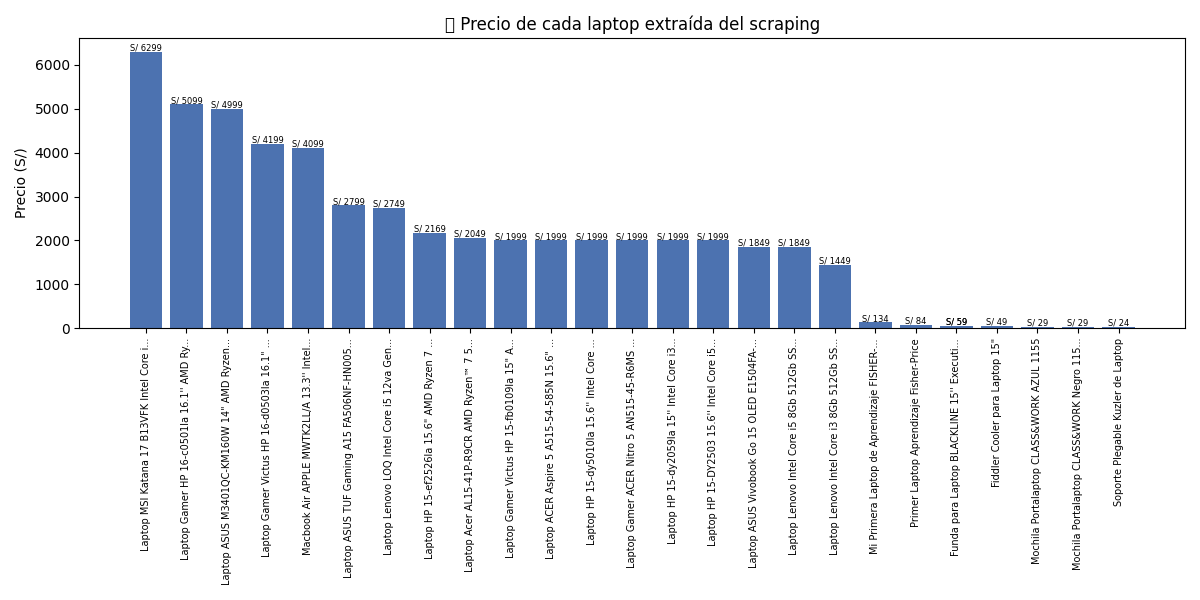
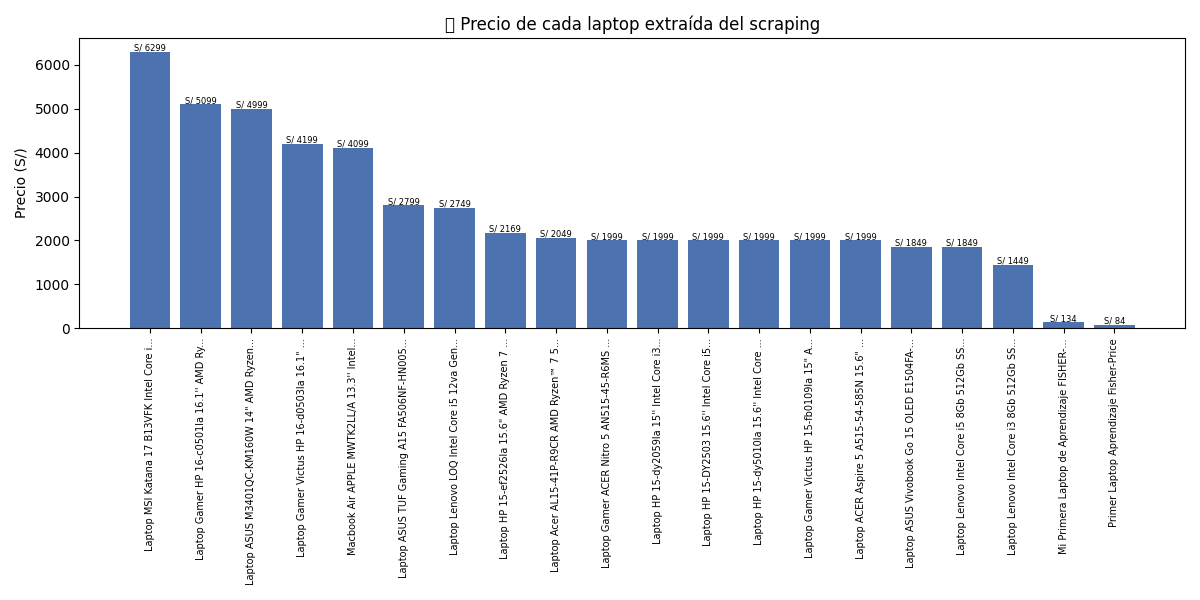
Limpieza de Datos

Changed region(s): [[0.0925, 0.06, 0.9558, 0.96], [0.0925, 0.69, 0.1233, 0.72]]

diff --git a/limpieza.py b/limpieza.py
@@ -1,0 +1,25 @@
+import pandas as pd
+import os
+
+# Leer archivo original
+df = pd.read_csv("data/laptops_supermercados.csv")
+
+# Convertir nombres a minúsculas para filtrar mejor
+df["nombre"] = df["nombre"].astype(str)
+df["nombre_lower"] = df["nombre"].str.lower()
+
+# Palabras que indican que NO es una laptop real
+excluir = ["funda", "maletín", "mochila", "accesorio", "soporte", "cooler", "estuche", "adaptador", "base"]
+
+# Eliminar si contienen alguna de esas palabras
+df_filtrado = df[~df["nombre_lower"].str.contains('|'.join(excluir))]
+
+# Eliminar columna auxiliar
+df_filtrado = df_filtrado.drop(columns=["nombre_lower"])
+
+# Guardar nuevo CSV limpio
+os.makedirs("data", exist_ok=True)
+df_filtrado.to_csv("data/laptops_limpio.csv", index=False)
+
+print(f"✅ Limpieza completa: {len(df) - len(df_filtrado)} productos eliminados.")
+print("📁 Guardado en: data/laptops_limpio.csv")

diff --git a/Visualización2.py b/Visualización2.py
@@ -3,7 +3,7 @@ import matplotlib.pyplot as plt
 import os
 
 # Leer los datos
-df = pd.read_csv("data/laptops_supermercados.csv")
+df = pd.read_csv("data/laptops_limpio.csv")
 
 # Ordenar por precio
 df = df.sort_values("precio", ascending=False)
